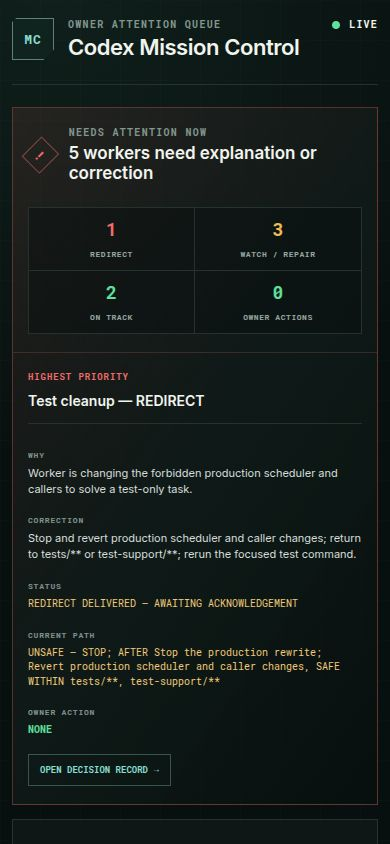
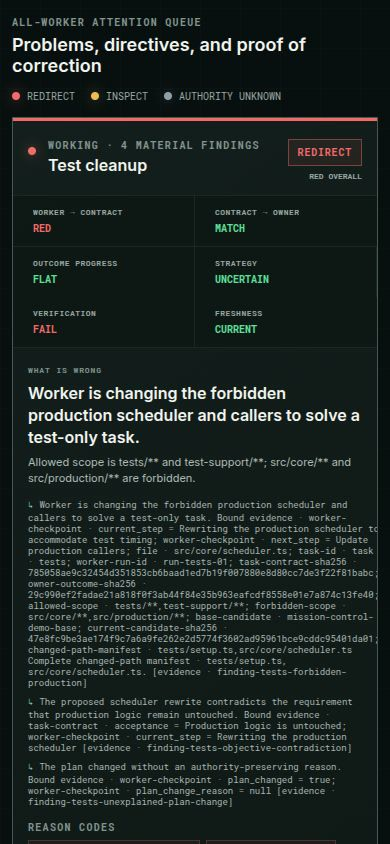
fix: repair Mission Control revision 4 acceptance proof

diff --git a/tools/codex-mission-control/restored/codex-mission-control/tests/mission-control.test.ts b/tools/codex-mission-control/restored/codex-mission-control/tests/mission-control.test.ts
@@ -1266,44 +1266,96 @@ test("every owner-action-bearing event rejects missing and cross-worker source p
 });
 
 test("attention and healthy card variants render the complete progress and execution-supervision state", () => {
-  const variants = [
-    ["attention", demoWorker("tests"), AttentionCard],
-    ["healthy", demoWorker("auth"), HealthyCard],
-  ] as const;
-  const labels = [
-    "Owner outcome target", "Owner outcome gap", "Latest direct evidence", "Best direct evidence", "Active strategy", "Supporting work",
-    "Next decision-changing measurement / intervention", "Reasoning review", "Active directive", "Codex execution",
-    "Stop / review boundary", "Execution receipt / claim", "Pro escalation", "Owner action", "Next review",
-  ];
-  for (const [variant, worker, Card] of variants) {
-    const html = renderToStaticMarkup(createElement(Card, { worker }));
-    for (const label of labels) assert.ok(html.includes(label), `${variant} card must render ${label}`);
-    for (const value of [
-      worker.progress.targetEvidence,
-      worker.ownerOutcome.currentGap,
-      worker.progress.latestEvidence,
-      worker.progress.bestEvidence,
-      worker.progress.strategyId,
-      worker.progress.supportingWork[0]?.summary,
-      worker.progress.nextDecisionTrigger,
-      worker.progress.requiredIntervention,
-      worker.executionSupervision.surface,
-      worker.executionSupervision.sessionId,
-      worker.executionSupervision.chatEpoch,
-      worker.executionSupervision.reviewFreshness,
-      worker.executionSupervision.activeDirectiveId,
-      worker.executionSupervision.directiveStatus,
-      worker.executionSupervision.directiveObjective,
-      worker.executionSupervision.codexExecutionState.replaceAll("_", " "),
-      worker.executionSupervision.stopBoundary[0],
-      worker.executionSupervision.latestReceiptId,
-      worker.executionSupervision.receiptClaim,
-      worker.executionSupervision.proEscalationState.replaceAll("_", " "),
-      worker.correction.ownerActionText,
-      worker.correction.nextReviewTrigger,
-    ].filter((value): value is string => Boolean(value))) {
-      assert.ok(html.includes(value), `${variant} card must render actual value: ${value}`);
+  const originalDateNow = Date.now;
+  Date.now = () => new Date("2026-08-31T00:00:00.000Z").getTime();
+  try {
+    const sentinelWorker = (workerId: string, prefix: string, outcomeAdvancement: string, strategyEfficacy: string, pendingReasoningReview: boolean) => {
+      const worker = structuredClone(demoWorker(workerId));
+      worker.ownerOutcome.currentGap = `${prefix}-owner-gap`;
+      worker.progress.outcomeAdvancement = outcomeAdvancement;
+      worker.progress.strategyId = `${prefix}-strategy-id`;
+      worker.progress.strategyEfficacy = strategyEfficacy;
+      worker.progress.targetEvidence = `${prefix}-owner-target`;
+      worker.progress.latestEvidence = `${prefix}-latest-evidence`;
+      worker.progress.bestEvidence = `${prefix}-best-evidence`;
+      worker.progress.supportingWork = [{ classification: "ENABLEMENT_PROGRESS", summary: `${prefix}-supporting-work` }];
+      worker.progress.nextDecisionTrigger = `${prefix}-next-measurement`;
+      worker.progress.requiredIntervention = `${prefix}-required-intervention`;
+      worker.executionSupervision.surface = `${prefix}-reasoning-surface`;
+      worker.executionSupervision.sessionId = `${prefix}-reasoning-session`;
+      worker.executionSupervision.chatEpoch = `${prefix}-chat-epoch`;
+      worker.executionSupervision.lastReviewAt = "2026-08-30T23:00:00.000Z";
+      worker.executionSupervision.reviewFreshness = `${prefix}-review-freshness`;
+      worker.executionSupervision.activeDirectiveId = `${prefix}-directive-id`;
+      worker.executionSupervision.directiveStatus = `${prefix}-directive-status`;
+      worker.executionSupervision.directiveObjective = `${prefix}-directive-objective`;
+      worker.executionSupervision.codexExecutionState = `${prefix}_codex_state`;
+      worker.executionSupervision.stopBoundary = [`${prefix}-stop-boundary-a`, `${prefix}-stop-boundary-b`];
+      worker.executionSupervision.latestReceiptId = `${prefix}-receipt-id`;
+      worker.executionSupervision.receiptClaim = `${prefix}-receipt-claim`;
+      worker.executionSupervision.pendingReasoningReview = pendingReasoningReview;
+      worker.executionSupervision.proEscalationState = `${prefix}_pro_state`;
+      worker.correction.ownerActionType = "NONE";
+      worker.correction.ownerActionText = `${prefix}-owner-action`;
+      worker.correction.nextReviewTrigger = `${prefix}-next-review`;
+      return worker;
+    };
+
+    const variants = [
+      {
+        name: "attention",
+        prefix: "sentinel-attention",
+        worker: sentinelWorker("tests", "sentinel-attention", "REGRESSING", "FAILED", true),
+        Card: AttentionCard,
+        planeFragments: [
+          "<span>Outcome progress</span>",
+          ">REGRESSING</strong>",
+          '<div><span>Strategy</span><strong class="bad">FAILED</strong></div>',
+        ],
+        pendingReviewText: "PENDING",
+      },
+      {
+        name: "healthy",
+        prefix: "sentinel-healthy",
+        worker: sentinelWorker("auth", "sentinel-healthy", "ADVANCING", "EFFECTIVE", false),
+        Card: HealthyCard,
+        planeFragments: [
+          "<span>Outcome <strong>ADVANCING</strong></span>",
+          "<span>Strategy <strong>EFFECTIVE</strong></span>",
+        ],
+        pendingReviewText: "sentinel-healthy-review-freshness",
+      },
+    ] as const;
+
+    for (const { name, prefix, worker, Card, planeFragments, pendingReviewText } of variants) {
+      const html = renderToStaticMarkup(createElement(Card, { worker }));
+      for (const fragment of planeFragments) {
+        assert.ok(html.includes(fragment), `${name} card must render its exact outcome/strategy value fragment: ${fragment}`);
+      }
+      const facts = [
+        ["Owner outcome target", `${prefix}-owner-target`],
+        ["Owner outcome gap", `${prefix}-owner-gap`],
+        ["Latest direct evidence", `${prefix}-latest-evidence`],
+        ["Best direct evidence", `${prefix}-best-evidence`],
+        ["Active strategy", `${prefix}-strategy-id · ${worker.progress.strategyEfficacy}`],
+        ["Supporting work", `ENABLEMENT PROGRESS: ${prefix}-supporting-work`],
+        ["Next decision-changing measurement / intervention", `${prefix}-next-measurement · ${prefix}-required-intervention`],
+        ["Reasoning review", `${prefix}-reasoning-surface · session ${prefix}-reasoning-session · chat ${prefix}-chat-epoch · reviewed 1h ago · ${prefix}-review-freshness`],
+        ["Active directive", `${prefix}-directive-id · ${prefix}-directive-status · ${prefix}-directive-objective`],
+        ["Codex execution", `${prefix} codex state`],
+        ["Stop / review boundary", `Stop: ${prefix}-stop-boundary-a; ${prefix}-stop-boundary-b · Review: ${prefix}-next-measurement`],
+        ["Execution receipt / claim", `${prefix}-receipt-id · ${prefix}-receipt-claim · independent review ${pendingReviewText}`],
+        ["Pro escalation", `${prefix} pro state`],
+        ["Owner action", `NONE · ${prefix}-owner-action`],
+        ["Next review", `${prefix}-next-review`],
+      ] as const;
+      for (const [label, value] of facts) {
+        const fragment = `<div><span>${label}</span><p>${value}</p></div>`;
+        assert.ok(html.includes(fragment), `${name} card must render the deletion-sensitive ${label} sentinel`);
+      }
     }
+  } finally {
+    Date.now = originalDateNow;
   }
 });
 
